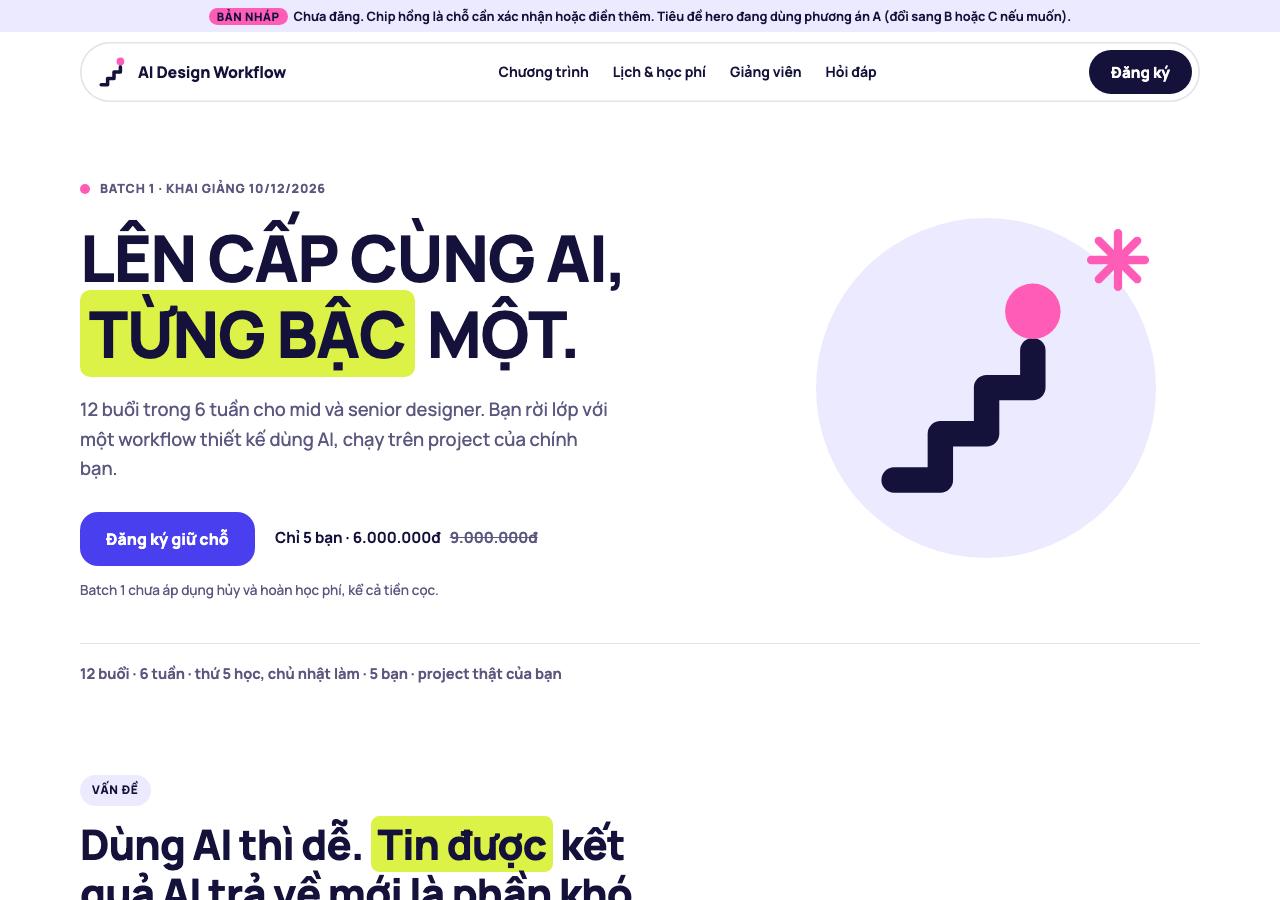
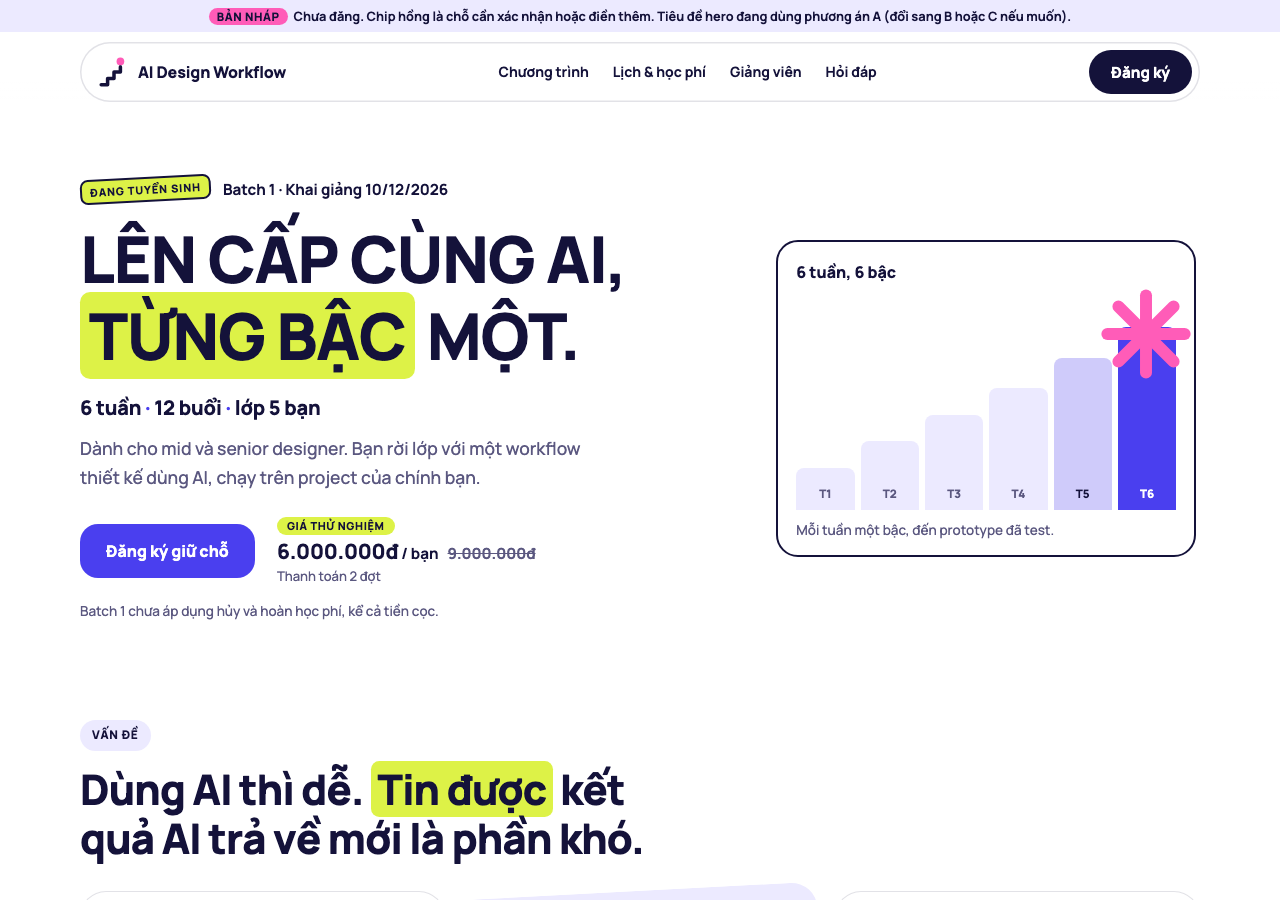
Hero: six-step card with large star, bold summary line, price with trial pill, status stamp
Temporary ?e=c / ?e=d toggle compares two eyebrow styles.

diff --git a/site/public/landing-v2/index.html b/site/public/landing-v2/index.html
@@ -56,28 +56,38 @@ section{padding:var(--section) 0 0}
 .sub{margin-top:14px;max-width:62ch;color:var(--muted)}
 .head{margin-bottom:28px}
 
-/* Hero: chữ trên nền trắng, branding chỉ là điểm nhấn (dấu bậc thang, chữ nhấn chartreuse, chấm hồng) */
+/* Hero: chữ trên nền trắng. Bên phải là thẻ "6 tuần, 6 bậc", ngôi sao hồng lớn đè lên bậc cuối */
 .hero{display:grid;grid-template-columns:minmax(0,1.5fr) minmax(0,1fr);gap:clamp(20px,4vw,56px);align-items:center;padding:clamp(28px,6vw,72px) 0 8px}
-.eyebrow{display:inline-flex;align-items:center;gap:10px;font-size:.78rem;font-weight:800;letter-spacing:.06em;text-transform:uppercase;color:var(--muted)}
-.eyebrow i{width:10px;height:10px;border-radius:50%;background:var(--pink);flex:none}
+.eb{margin:0;align-items:center;gap:12px;font-weight:700;font-size:.95rem}
+.eb-c,.eb-d{display:none}
+body.e-c .eb-c{display:inline-flex}
+body.e-d .eb-d{display:inline-flex;background:var(--soft);border-radius:var(--r-pill);padding:6px 14px 6px 10px;font-weight:800;font-size:.8rem;letter-spacing:.04em;text-transform:uppercase}
+.eb-d svg{width:16px;height:16px;color:var(--pink)}
+.stamp{display:inline-block;font-size:.68rem;font-weight:800;letter-spacing:.08em;text-transform:uppercase;border:2px solid var(--ink);background:var(--chartreuse);border-radius:8px;padding:2px 8px;transform:rotate(-3deg);white-space:nowrap}
 .h-text h1{font-size:clamp(2.2rem,5.4vw,4rem);text-transform:uppercase;letter-spacing:-.015em;line-height:1.2;font-weight:800;margin-top:18px;text-wrap:balance}
 .h-text h1 em{font-style:normal;background:var(--chartreuse);padding:0 .14em;border-radius:.16em;-webkit-box-decoration-break:clone;box-decoration-break:clone}
-.h-text .lead{margin-top:22px;max-width:46ch;color:var(--muted);font-size:1.15rem}
-.h-cta{margin-top:28px;display:flex;flex-wrap:wrap;align-items:center;gap:12px 20px}
+.sum{margin-top:18px;font-size:1.25rem;font-weight:800;letter-spacing:-.01em}
+.sum span{color:var(--indigo)}
+.h-text .lead{margin-top:10px;max-width:46ch;color:var(--muted);font-size:1.1rem}
+.h-cta{margin-top:26px;display:flex;flex-wrap:wrap;align-items:center;gap:14px 22px}
 .btn--indigo{background:var(--indigo);color:#fff}
-.cta-note{font-size:.95rem;font-weight:700}
-.cta-note s{color:var(--muted);font-weight:600;margin-left:6px}
-.policy-line{margin-top:14px;font-size:.85rem;color:var(--muted)}
-.h-art{justify-self:center;width:min(100%,340px);aspect-ratio:1;border-radius:50%;background:var(--soft);display:flex;align-items:center;justify-content:center}
-.h-art{position:relative}
-.h-art>svg:first-child{width:68%;height:68%}
-.h-art .sparkle{width:64px;height:64px;right:6px;top:10px}
-.facts-line{margin-top:34px;padding-top:18px;border-top:1.5px solid var(--line);font-size:.92rem;font-weight:700;color:var(--muted)}
+.hprice{display:flex;flex-direction:column;align-items:flex-start;gap:3px;line-height:1.3}
+.hprice .pill{background:var(--chartreuse);border-radius:var(--r-pill);font-size:.68rem;font-weight:800;letter-spacing:.06em;text-transform:uppercase;padding:2px 10px}
+.pnow{font-size:.95rem;font-weight:700}.pnow b{font-size:1.3rem;font-weight:800;letter-spacing:-.01em}
+.pnow s{color:var(--muted);font-weight:600;margin-left:6px}
+.pnote{font-size:.82rem;color:var(--muted)}
+.policy-line{margin-top:16px;font-size:.85rem;color:var(--muted)}
+.h-art{border:2px solid var(--ink);border-radius:22px;padding:18px 18px 14px;max-width:420px;width:100%;justify-self:center}
+.art-h{font-size:1rem;font-weight:800;margin-bottom:34px}
+.bars{display:flex;align-items:flex-end;gap:6px;height:190px;position:relative}
+.bars i{flex:1;border-radius:8px 8px 0 0;font-style:normal;font-size:.72rem;font-weight:800;color:var(--muted);display:flex;align-items:flex-end;justify-content:center;padding-bottom:6px;background:var(--soft)}
+.bars i:nth-child(1){height:22%}.bars i:nth-child(2){height:36%}.bars i:nth-child(3){height:50%}.bars i:nth-child(4){height:64%}
+.bars i:nth-child(5){height:80%;background:#CFCBFA;color:var(--ink)}
+.bars i:nth-child(6){height:96%;background:var(--indigo);color:#fff}
+.star-big{position:absolute;right:-16px;top:-32px;width:92px;height:92px;color:var(--pink);pointer-events:none}
+.art-cap{margin-top:10px;font-size:.85rem;color:var(--muted)}
 .sparkle{position:absolute;width:60px;height:60px;color:var(--pink);right:-8px;top:-14px}
-@media(max-width:860px){
-  .hero{grid-template-columns:minmax(0,1fr)}
-  .h-art{display:none}
-}
+@media(max-width:860px){.hero{grid-template-columns:minmax(0,1fr)}.h-art{max-width:none}.bars{height:150px}}
 
 /* Vấn đề */
 .cards4{display:grid;grid-template-columns:repeat(3,minmax(0,1fr));gap:var(--gap)}
@@ -262,18 +272,28 @@ footer .wrap{display:flex;flex-wrap:wrap;gap:12px 28px;align-items:center;justif
 <div class="wrap">
   <div class="hero">
     <div class="h-text">
-      <span class="eyebrow"><i></i>Batch 1 · Khai giảng 10/12/2026</span>
+      <!-- Tạm thời: hai kiểu dòng đầu để so sánh. Dùng ?e=c hoặc ?e=d trên URL. Xóa một kiểu khi đã chọn. -->
+      <p class="eb eb-c"><span class="stamp">Đang tuyển sinh</span>Batch 1 · Khai giảng 10/12/2026</p>
+      <p class="eb eb-d"><svg viewBox="0 0 100 100" aria-hidden="true"><use href="#star"/></svg>Batch 1 · 10/12/2026</p>
       <h1>Lên cấp cùng AI, <em>từng bậc</em> một.</h1>
-      <p class="lead">12 buổi trong 6 tuần cho mid và senior designer. Bạn rời lớp với một workflow thiết kế dùng AI, chạy trên project của chính bạn.</p>
+      <p class="sum">6 tuần <span>·</span> 12 buổi <span>·</span> lớp 5 bạn</p>
+      <p class="lead">Dành cho mid và senior designer. Bạn rời lớp với một workflow thiết kế dùng AI, chạy trên project của chính bạn.</p>
       <div class="h-cta">
         <a class="btn btn--indigo btn--lg" href="#dang-ky">Đăng ký giữ chỗ</a>
-        <span class="cta-note">Chỉ 5 bạn · 6.000.000đ <s>9.000.000đ</s></span>
+        <div class="hprice">
+          <span class="pill">Giá thử nghiệm</span>
+          <span class="pnow"><b>6.000.000đ</b> / bạn <s>9.000.000đ</s></span>
+          <span class="pnote">Thanh toán 2 đợt</span>
+        </div>
       </div>
       <p class="policy-line">Batch 1 chưa áp dụng hủy và hoàn học phí, kể cả tiền cọc.</p>
     </div>
-    <div class="h-art" aria-hidden="true"><svg viewBox="0 0 100 100"><use href="#mk"/></svg><svg class="sparkle" viewBox="0 0 100 100"><use href="#star"/></svg></div>
+    <div class="h-art">
+      <h2 class="art-h">6 tuần, 6 bậc</h2>
+      <div class="bars" aria-label="Sáu tuần, mỗi tuần một bậc"><i>T1</i><i>T2</i><i>T3</i><i>T4</i><i>T5</i><i>T6</i><svg class="star-big" viewBox="0 0 100 100" aria-hidden="true"><use href="#star"/></svg></div>
+      <p class="art-cap">Mỗi tuần một bậc, đến prototype đã test.</p>
+    </div>
   </div>
-  <p class="facts-line">12 buổi · 6 tuần · thứ 5 học, chủ nhật làm · 5 bạn · project thật của bạn</p>
 </div>
 
 <!-- 2. Vấn đề -->
@@ -524,5 +544,9 @@ footer .wrap{display:flex;flex-wrap:wrap;gap:12px 28px;align-items:center;justif
   <span>Winnie Nguyen · Daphne Huynh · Học online, bằng tiếng Việt</span>
 </div></footer>
 
+<script>
+/* Tạm thời: chọn kiểu dòng đầu bằng ?e=c hoặc ?e=d (mặc định c). Xóa script này khi đã chọn. */
+(function(){var e='c';try{var q=new URLSearchParams(location.search).get('e');if(q==='d')e='d'}catch(x){}document.body.classList.add('e-'+e)})();
+</script>
 </body>
 </html>
